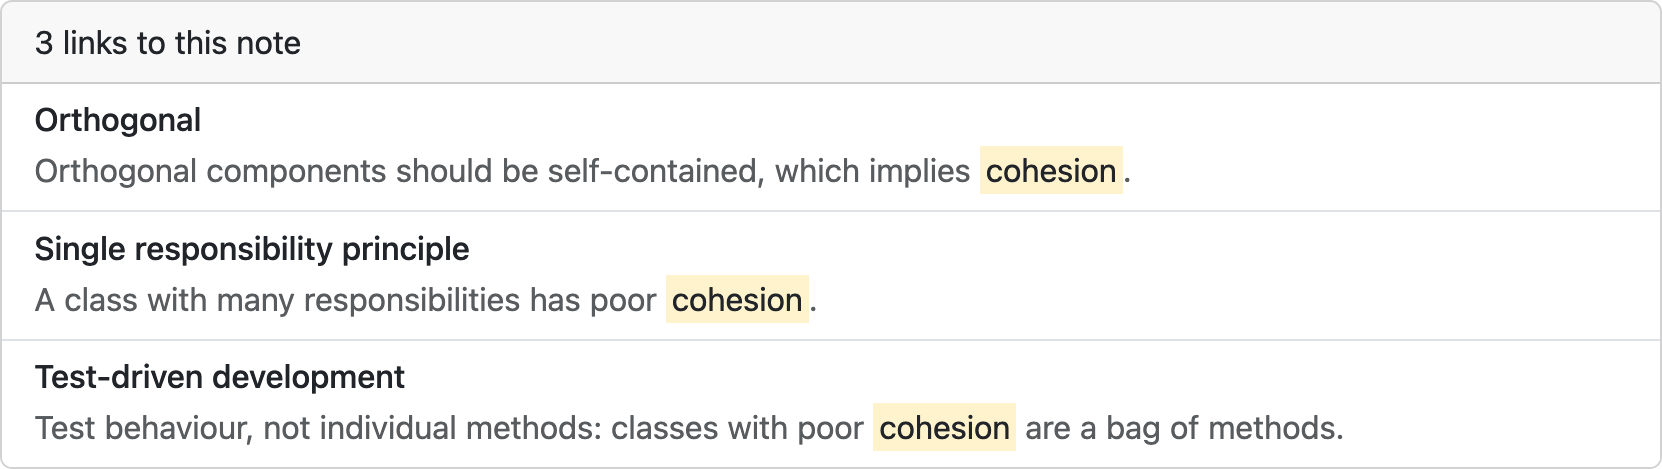
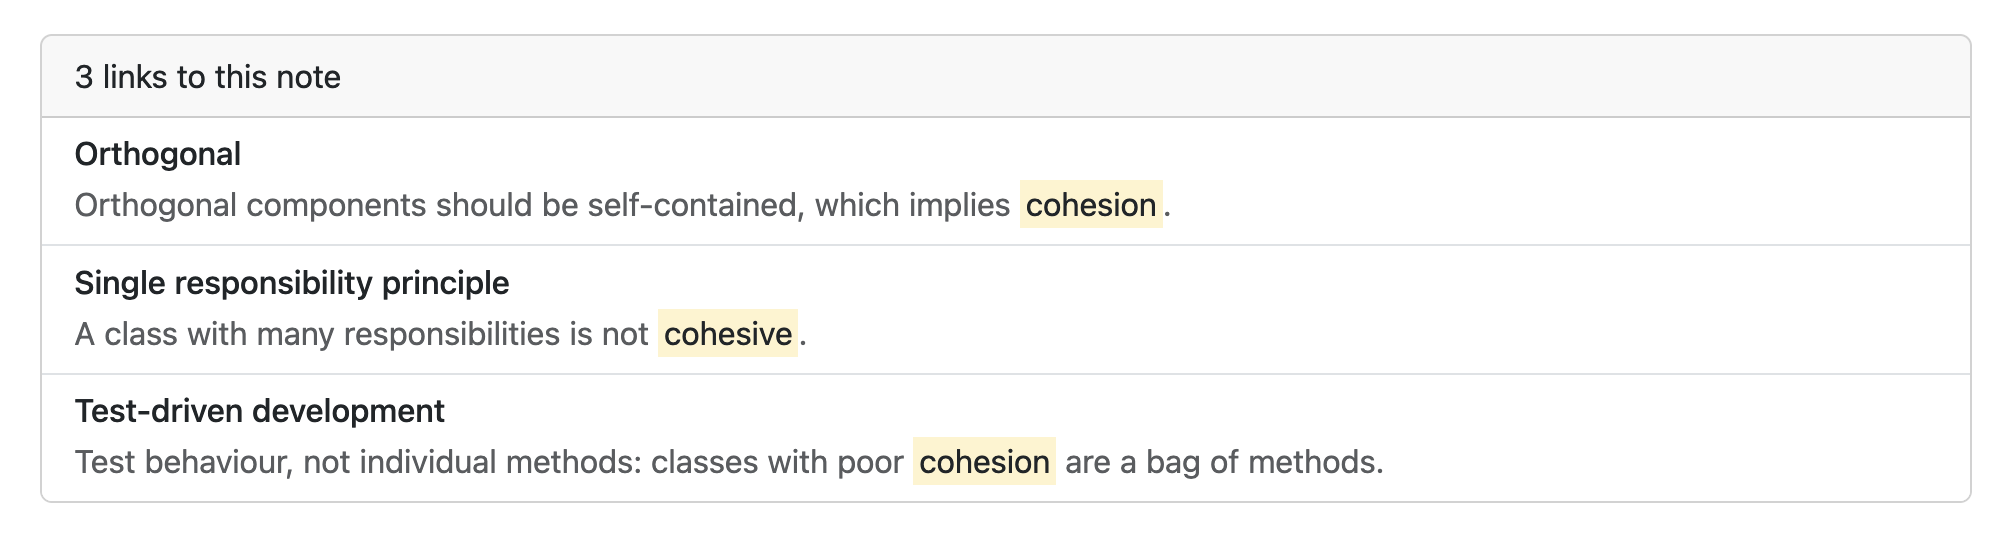
Add note synonyms
Read a list of synonyms from the first line of a note's content.

Allow a note to have multiple names, including its title and synonyms. Change
the note's title regexp to a names regexp that matches any of the note's names.

Garden finds notes by any name. A note with synonyms appears more than once in
Garden's @notes_hash.

diff --git a/spec/vita/garden_note_spec.rb b/spec/vita/garden_note_spec.rb
@@ -3,19 +3,19 @@ require "vita/garden_note"
 
 module Vita
   describe GardenNote do
-    note_content = <<~TEXT
-      This is the first note. Notes can refer to other notes. For example, this note
-      refers to the second note.
-
-      When a note's content includes the title of another note, a bidirectional link
-      is created between the two notes. A note's links to other notes are called its
-      outlinks, and a note's links from other notes are called backlinks.
-
-      This note contains several outlinks to the second note. Outlinks are not
-      case-sensitive: Second Note creates an outlink too.
-    TEXT
-
     let(:note) {
+      note_content = <<~TEXT
+        This is the first note. Notes can refer to other notes. For example, this note
+        refers to the second note.
+
+        When a note's content includes the title of another note, a bidirectional link
+        is created between the two notes. A note's links to other notes are called its
+        outlinks, and a note's links from other notes are called backlinks.
+
+        This note contains several outlinks to the second note. Outlinks are not
+        case-sensitive: Second Note creates an outlink too.
+      TEXT
+
       instance_double("Note",
         title: "First note",
         filename: "First note.txt",
@@ -31,9 +31,9 @@ module Vita
     end
 
     it "has a regular expression that matches the title" do
-      expect(subject.title_regexp).to match("Content that mentions first note")
-      expect(subject.title_regexp).to_not match("First noteful")
-      expect(subject.title_regexp).to_not match("No match here")
+      expect(subject.names_regexp).to match("Content that mentions first note")
+      expect(subject.names_regexp).to_not match("First noteful")
+      expect(subject.names_regexp).to_not match("No match here")
     end
 
     it "has content from the note" do
@@ -49,6 +49,35 @@ module Vita
 
     it "has a path based on the note title" do
       expect(subject.path).to eq "first-note.html"
+    end
+
+    context "with synonyms" do
+      let(:note) {
+        note_content = <<~TEXT
+          Synonyms: one, two , fourty seven
+          This is the content.
+        TEXT
+        instance_double("Note",
+          title: "Note",
+          filename: "Note.txt",
+          content: note_content,
+          html: "HTML")
+      }
+
+      it "has synonyms" do
+        expect(subject.synonyms).to eq ["one", "two", "fourty seven"]
+      end
+
+      it "has a regexp that matches the note title and synonyms" do
+        expect(subject.names_regexp).to match("note")
+        expect(subject.names_regexp).to match("one")
+        expect(subject.names_regexp).to match("two")
+        expect(subject.names_regexp).to match("fourty seven")
+      end
+
+      it "does not include the synonym list in the content" do
+        expect(subject.content).to eq "This is the content.\n"
+      end
     end
 
     context "with content longer than the excerpt length" do
@@ -105,7 +134,7 @@ module Vita
 
     context "in a garden with two notes" do
       let(:second_note) {
-        instance_double("Note", title: "Second note")
+        instance_double("Note", title: "Second note", content: "")
       }
       let(:garden_second_note) { GardenNote.new(garden, second_note) }
 

diff --git a/lib/vita/garden_note.rb b/lib/vita/garden_note.rb
@@ -12,12 +12,30 @@ module Vita
       @note = note
     end
 
+    # Get this note's primary title.
     def title
       @note.title
     end
 
-    def title_regexp
-      /\b#{Regexp.quote(title)}\b/i
+    # Get alternative names for this note.
+    def synonyms
+      if @note.content.start_with? "Synonyms:"
+        @note.content[9..@note.content.index("\n")].split(",").map(&:strip)
+      else
+        []
+      end
+    end
+
+    # Get all names for this note, including its title and synonyms.
+    def all_names
+      [title, *synonyms]
+    end
+
+    # Get a regular expression that matches any of this note's names surrounded
+    # by word boundaries.
+    def names_regexp
+      elements = all_names.map { |name| /#{Regexp.quote(name)}/i }
+      /\b#{Regexp.union(elements)}\b/
     end
 
     def path
@@ -29,7 +47,11 @@ module Vita
     end
 
     def content
-      @note.content
+      if @note.content.start_with? "Synonyms:"
+        @note.content[@note.content.index("\n") + 1..]
+      else
+        @note.content
+      end
     end
 
     def html
@@ -62,7 +84,7 @@ module Vita
 
     def create_outlinks
       notes = garden.linkable_notes - [self]
-      regexp = Regexp.union(notes.map(&:title_regexp))
+      regexp = Regexp.union(notes.map(&:names_regexp))
       matches = NoteScanner.new(content).scan(regexp)
 
       matches.map do |match|

diff --git a/spec/vita/garden_spec.rb b/spec/vita/garden_spec.rb
@@ -41,7 +41,7 @@ module Vita
     end
 
     context "with one note" do
-      let(:note) { instance_double("Note", title: "Title") }
+      let(:note) { instance_double("Note", title: "Title", content: "Synonyms: other") }
       subject(:garden) { Garden.new("Garden", [note]) }
 
       it "is not empty" do
@@ -55,6 +55,11 @@ module Vita
       it "gets a note by title case-insensitively" do
         expect(garden["Title"].title).to eq "Title"
         expect(garden["title"].title).to eq "Title"
+      end
+
+      it "gets a note by synonyms case-insensitively" do
+        expect(garden["Other"].title).to eq "Title"
+        expect(garden["other"].title).to eq "Title"
       end
 
       it "returns nil if the note does not exist" do
@@ -82,9 +87,9 @@ module Vita
 
     it "sorts notes alphabetically by title" do
       garden = Garden.new("Garden", [
-        instance_double("Note", title: "Bravo"),
-        instance_double("Note", title: "Charlie"),
-        instance_double("Note", title: "Alpha")
+        instance_double("Note", title: "Bravo", content: ""),
+        instance_double("Note", title: "Charlie", content: ""),
+        instance_double("Note", title: "Alpha", content: "")
       ])
 
       expect(garden.notes.map(&:title)).to eq ["Alpha", "Bravo", "Charlie"]

diff --git a/lib/vita/garden.rb b/lib/vita/garden.rb
@@ -60,7 +60,9 @@ module Vita
 
     def notes=(notes)
       @notes = notes.map { |note| GardenNote.new(self, note) }.sort_by(&:title)
-      @notes_hash = @notes.map { |note| [note.title.downcase, note] }.to_h
+      @notes_hash = @notes.flat_map { |note|
+        note.all_names.map { |name| [name.downcase, note] }
+      }.to_h
 
       if home_note
         @notes.delete(home_note)

diff --git a/README.md b/README.md
@@ -43,21 +43,31 @@ Vita creates a `publish` folder containing HTML files for publishing to a web se
 
 ## Links between notes
 
-Vita looks for connections between notes. When a note's title appears in the content of another note, Vita creates a link between the two.
+Vita looks for connections between notes. When a note's title (or a [synonym](#synonyms)) appears in the content of another note, Vita creates a link between the two.
 
 When viewing a note, links in the note's content are hyperlinked:
 
-<div style="text-align: center">
-  <img src="doc/outlinks.png" alt="Screenshot of a note in Vita, showing hyperlinks from a note's content to other notes" style="width: 50%">
-</div>
+<img src="doc/outlinks.png" alt="Screenshot of a note in Vita, showing hyperlinks from a note's content to other notes" style="width: 75%">
 
 A list of links from other notes to the current note follows the note's content:
 
-<div style="text-align: center">
-  <img src="doc/backlinks.png" alt="Screenshot of the &quot;links to this note&quot; panel in Vita, showing notes that reference the current note" style="width: 50%">
-</div>
+<img src="doc/backlinks.png" alt="Screenshot of the &quot;links to this note&quot; panel in Vita, showing notes that reference the current note" style="width: 75%">
 
 Each link includes an excerpt from the other note. Clicking one of these links navigates to the other note.
+
+## Synonyms
+
+Synonyms allow referring to notes using multiple names. Adding synonyms can be helpful when a note's title appears in other notes in different forms or tenses.
+
+For example, notes may refer to a note titled "Cohesion" using terms like "cohesive", "coherent", or "coherence". Adding these words as synonyms to the "Cohesion" note allows Vita to connect the notes with links.
+
+To specify a note's synonyms, add a `Synonyms:` line at the start of the file containing a comma-separated list of alternative names. For example, in a file called `Cohesion.txt`:
+
+```
+Synonyms: cohesive, coherent, coherence
+
+A module is cohesive if the elements in the module are related and the module is coherent as a whole.
+```
 
 ## Home note
 
